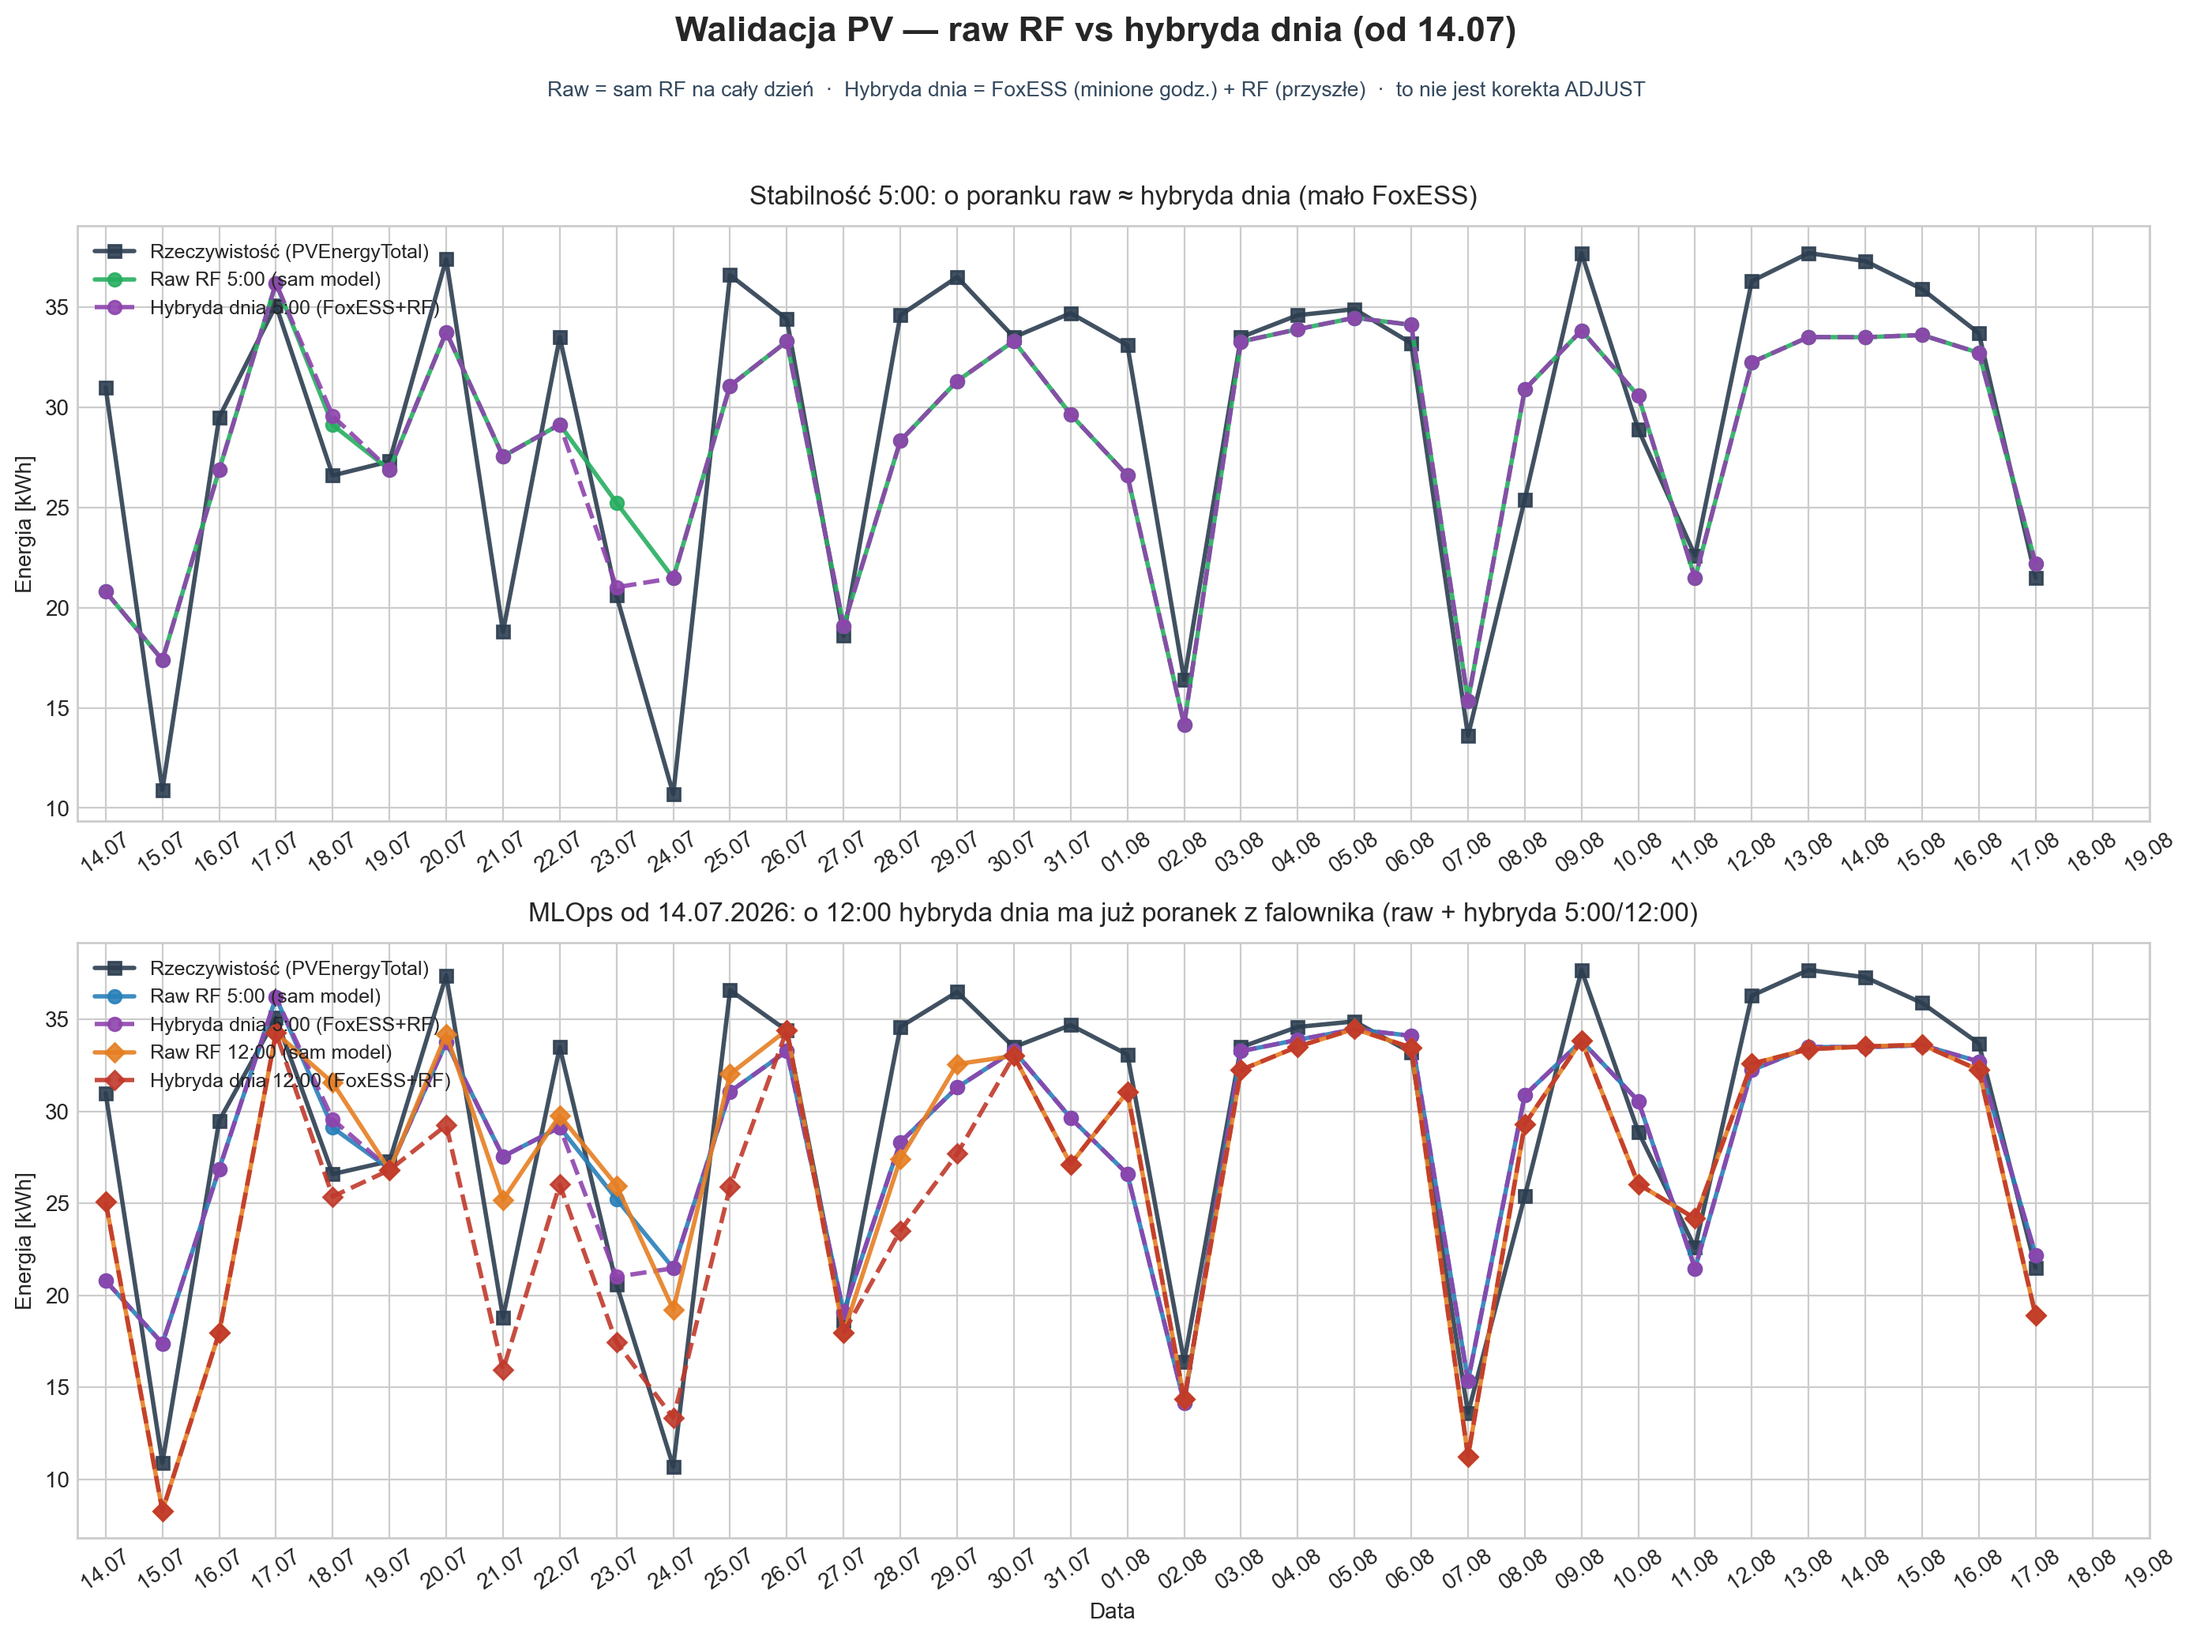
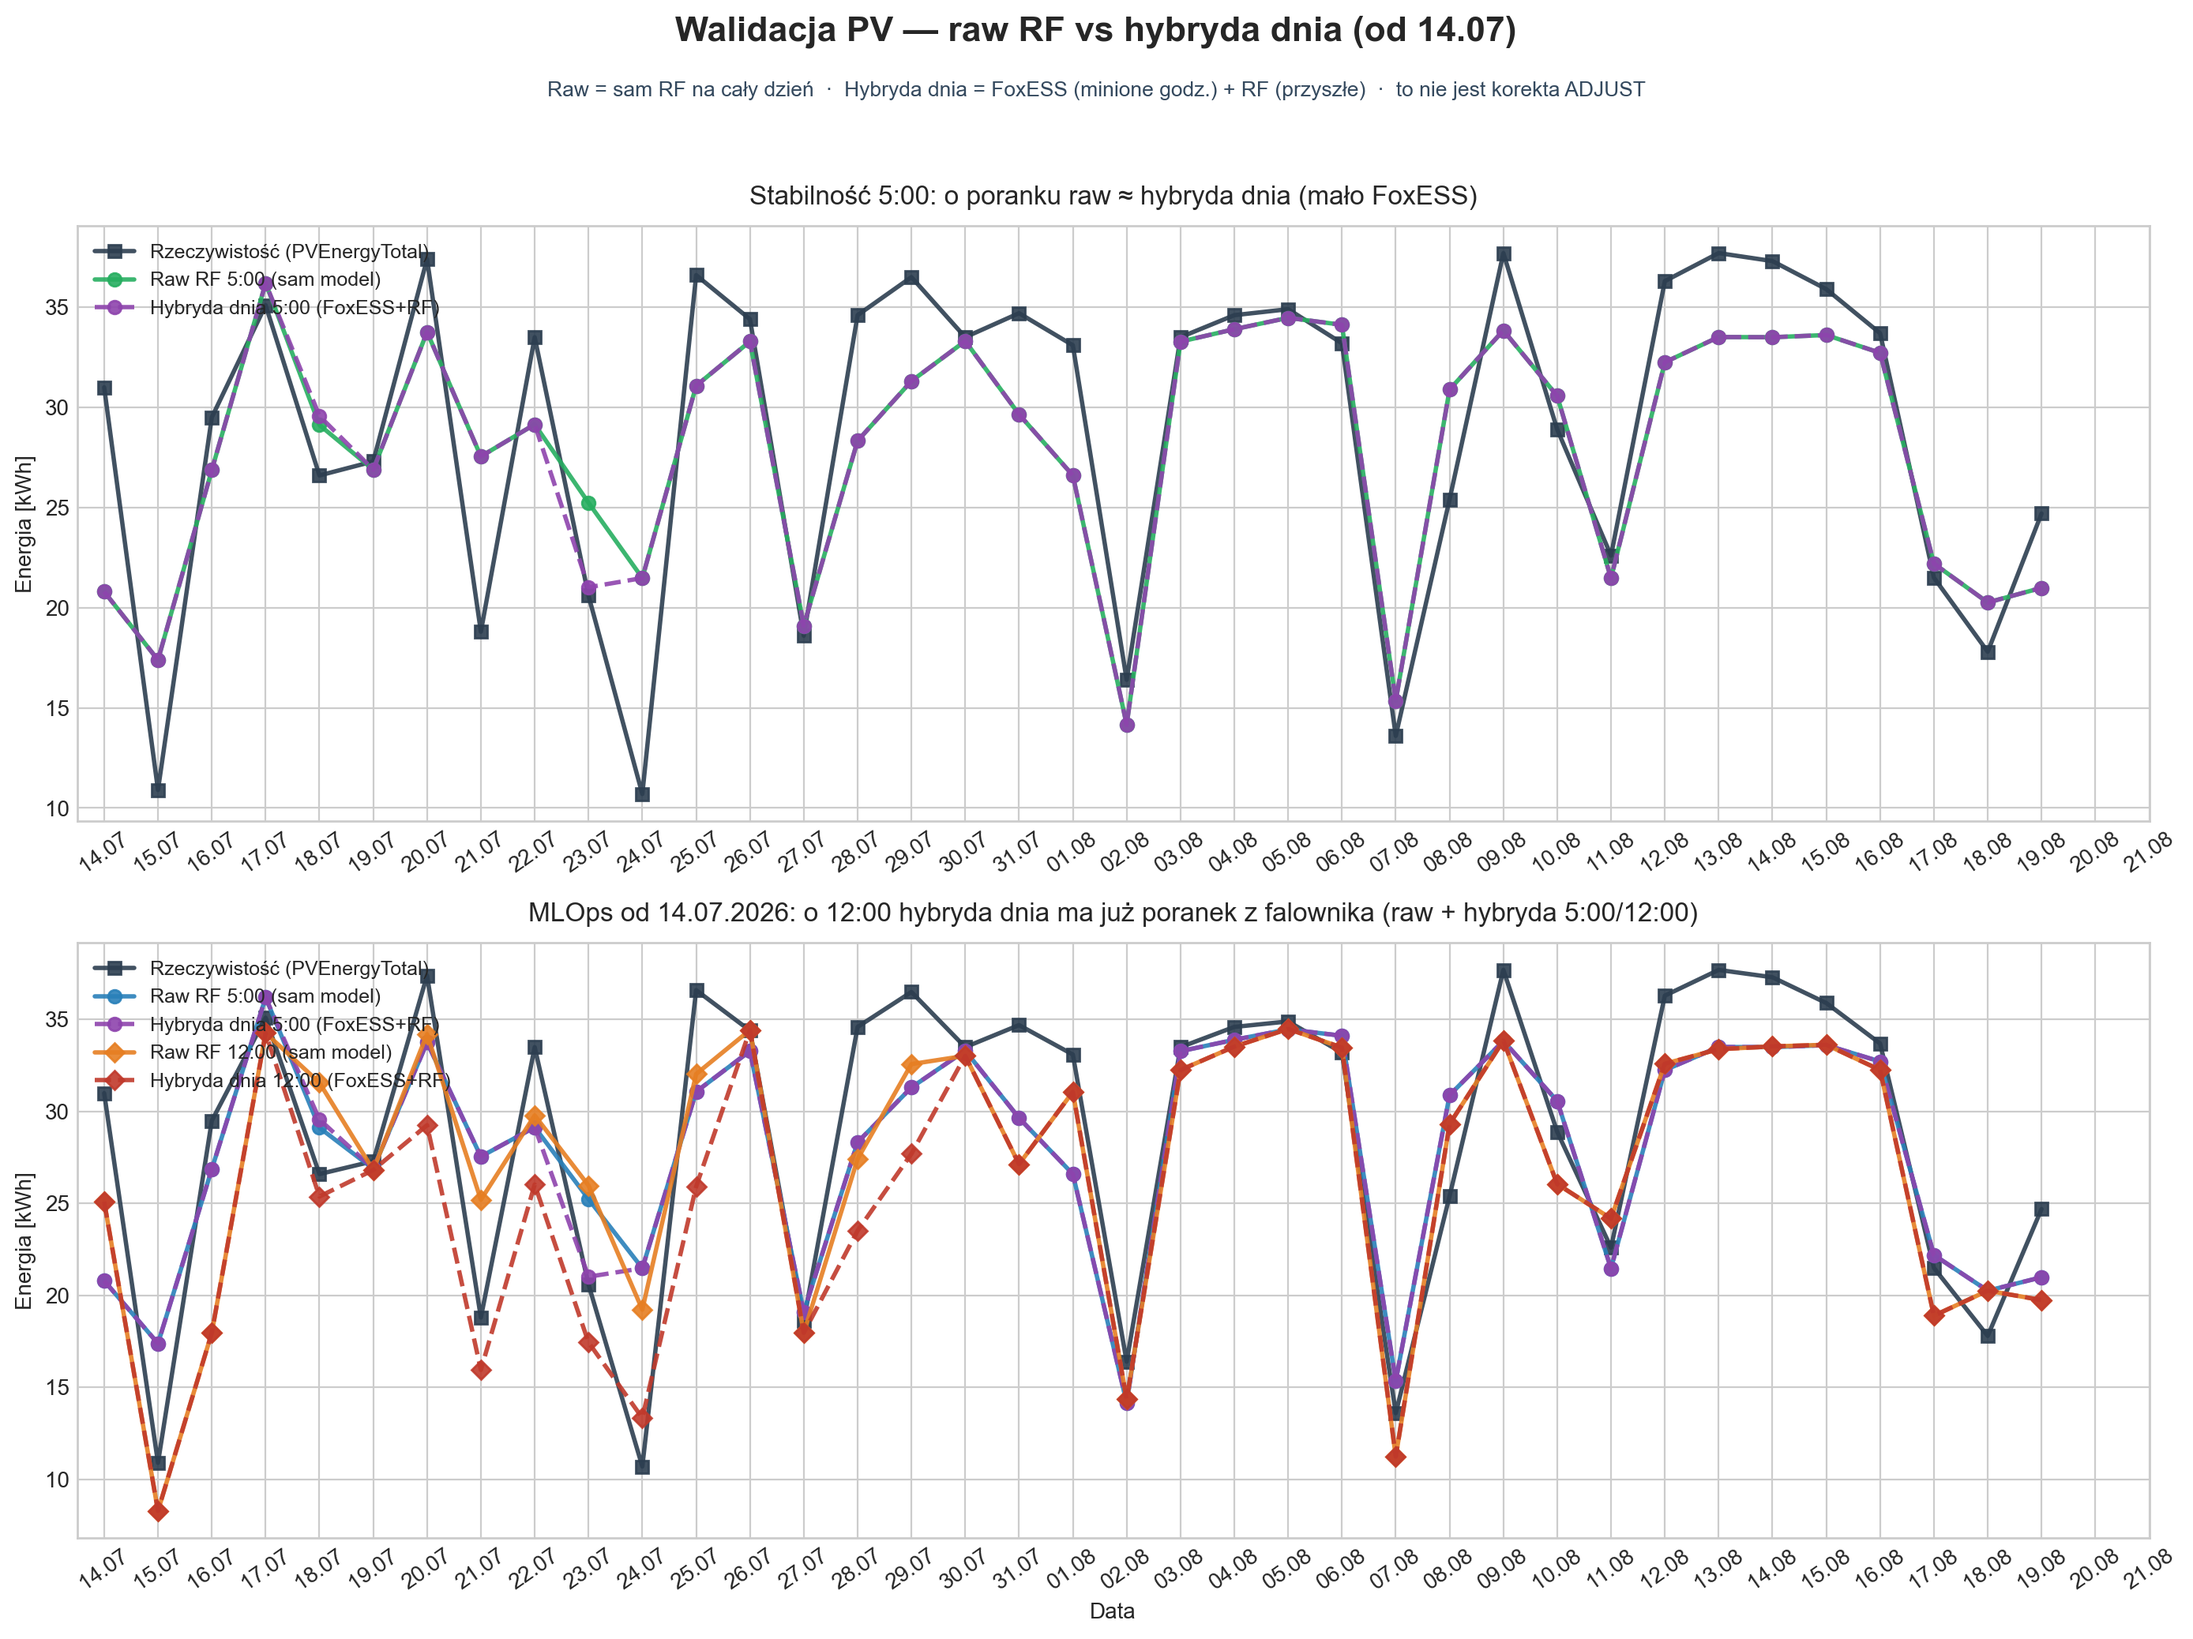
docs(ml): refresh validation charts and error notes through 19.08

Changed region(s): [[0.031, 0.5857, 0.96, 0.9865], [0.031, 0.1541, 0.991, 0.5241], [0.5265, 0.9249, 0.96, 0.9865]]

diff --git a/docs/images/ml/july_validation_summary.md b/docs/images/ml/july_validation_summary.md
@@ -8,7 +8,7 @@ Metryka: **|APE| %** = `|actual − prognoza| / actual × 100`. Pogoda: średnie
 |---|---:|---:|---:|---|
 | słoneczny / mało chmur | 11 | 6.2% | 5.8% | 20.07, 26.07, 30.07, 04.08, 05.08, 06.08, 09.08, 12.08, 13.08, 14.08, 15.08 |
 | mieszany | 9 | 11.0% | 14.5% | 16.07, 17.07, 25.07, 28.07, 29.07, 31.07, 03.08, 08.08, 16.08 |
-| pochmurny / deszczowy | 15 | 23.3% | 18.8% | 14.07, 15.07, 18.07, 19.07, 21.07, 22.07, 23.07, 24.07, 27.07, 01.08, 02.08, 07.08, 10.08, 11.08, 17.08 |
+| pochmurny / deszczowy | 17 | 22.2% | 18.6% | 14.07, 15.07, 18.07, 19.07, 21.07, 22.07, 23.07, 24.07, 27.07, 01.08, 02.08, 07.08, 10.08, 11.08, 17.08, 18.08, 19.08 |
 
 - **Najtrafniejszy raw 5:00:** 30.07 (0.6% · słoneczny / mało chmur, cloud~31%, actual 33.5 kWh), 03.08 (0.7% · mieszany, cloud~48%, actual 33.5 kWh), 05.08 (1.2% · słoneczny / mało chmur, cloud~9%, actual 34.9 kWh)
 - **Najgorszy raw 5:00:** 24.07 (100.7% · pochmurny / deszczowy, cloud~86%, actual 10.7 kWh), 15.07 (59.5% · pochmurny / deszczowy, cloud~94%, actual 10.9 kWh), 21.07 (46.5% · pochmurny / deszczowy, cloud~85%, actual 18.8 kWh)
@@ -21,7 +21,7 @@ Porównanie **midday (12:00)**: hybryda = FoxESS na minione godziny + RF na resz
 
 - **Hybryda pomaga (12:00):** 18.07 (↓14.1 pp, pochmurny / deszczowy); 21.07 (↓18.9 pp, pochmurny / deszczowy); 23.07 (↓10.8 pp, pochmurny / deszczowy); 24.07 (↓55.0 pp, pochmurny / deszczowy)
 - **Hybryda szkodzi (12:00):** 20.07 (↑13.2 pp, słoneczny / mało chmur); 22.07 (↑11.2 pp, pochmurny / deszczowy); 25.07 (↑16.7 pp, mieszany); 28.07 (↑11.3 pp, mieszany); 29.07 (↑13.4 pp, mieszany)
-- **Remis / szum (<1 pp):** 14.07, 15.07, 16.07, 17.07, 19.07, 26.07, 27.07, 30.07, 31.07, 01.08, 02.08, 03.08, 04.08, 05.08, 06.08, 07.08, 08.08, 09.08, 10.08, 11.08, 12.08, 13.08, 14.08, 15.08, 16.08, 17.08
+- **Remis / szum (<1 pp):** 14.07, 15.07, 16.07, 17.07, 19.07, 26.07, 27.07, 30.07, 31.07, 01.08, 02.08, 03.08, 04.08, 05.08, 06.08, 07.08, 08.08, 09.08, 10.08, 11.08, 12.08, 13.08, 14.08, 15.08, 16.08, 17.08, 18.08, 19.08
 
 - **O 5:00:** hybryda ≈ raw (pomaga 1 dni / szkodzi 1) — przed wschodem prawie nie ma FoxESS do podmiany.
 
@@ -39,7 +39,7 @@ Podział według **zmian logiki / targetu / cech** (nie każdy niedzielny odświ
 |---|---|---:|---:|---:|
 | 14.07–18.07 | przed targetem PVE (skala mieszana; GPS/ICON 17.07) | 5 | 22.8% | 20.6% |
 | 19.07–26.07 | po PVE 18.07 ~16:32 — przed dual 26.07 | 8 | 26.5% | 21.7% |
-| 27.07–17.08 | era produkcyjna dual (po 26.07; weekly = odświeżenie wag; do ostatniego closeoutu) | 22 | 8.7% | 9.1% |
-| 19.07–17.08 | **era PVE łącznie** (bez 14–18) | 30 | **13.4%** | **12.4%** |
+| 27.07–19.08 | era produkcyjna dual (po 26.07; weekly = odświeżenie wag; do ostatniego closeoutu) | 24 | 9.1% | 9.7% |
+| 19.07–19.08 | **era PVE łącznie** (bez 14–18) | 32 | **13.5%** | **12.7%** |
 
-_Zakres całość: 14.07–17.08 (35 closeoutów) · MAPE raw 5:00 = **14.8%** · MAPE raw 12:00 = **13.6%**._
+_Zakres całość: 14.07–19.08 (37 closeoutów) · MAPE raw 5:00 = **14.8%** · MAPE raw 12:00 = **13.8%**._
